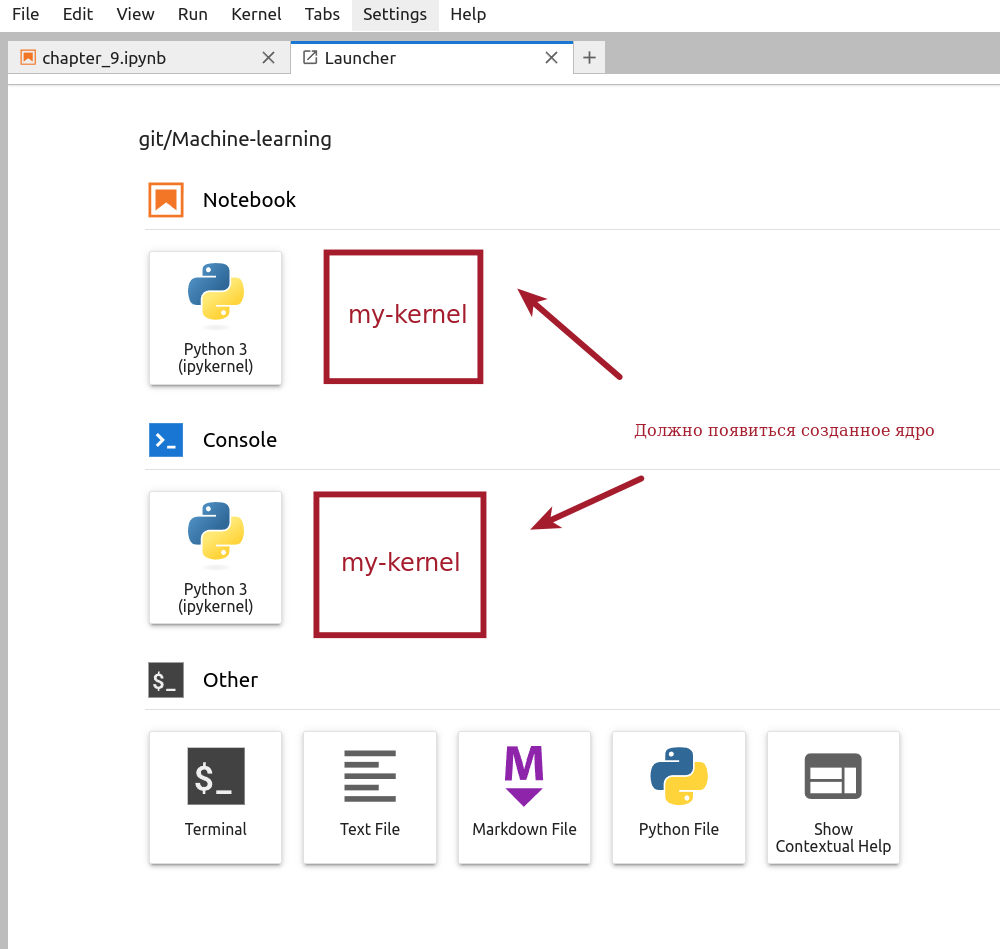
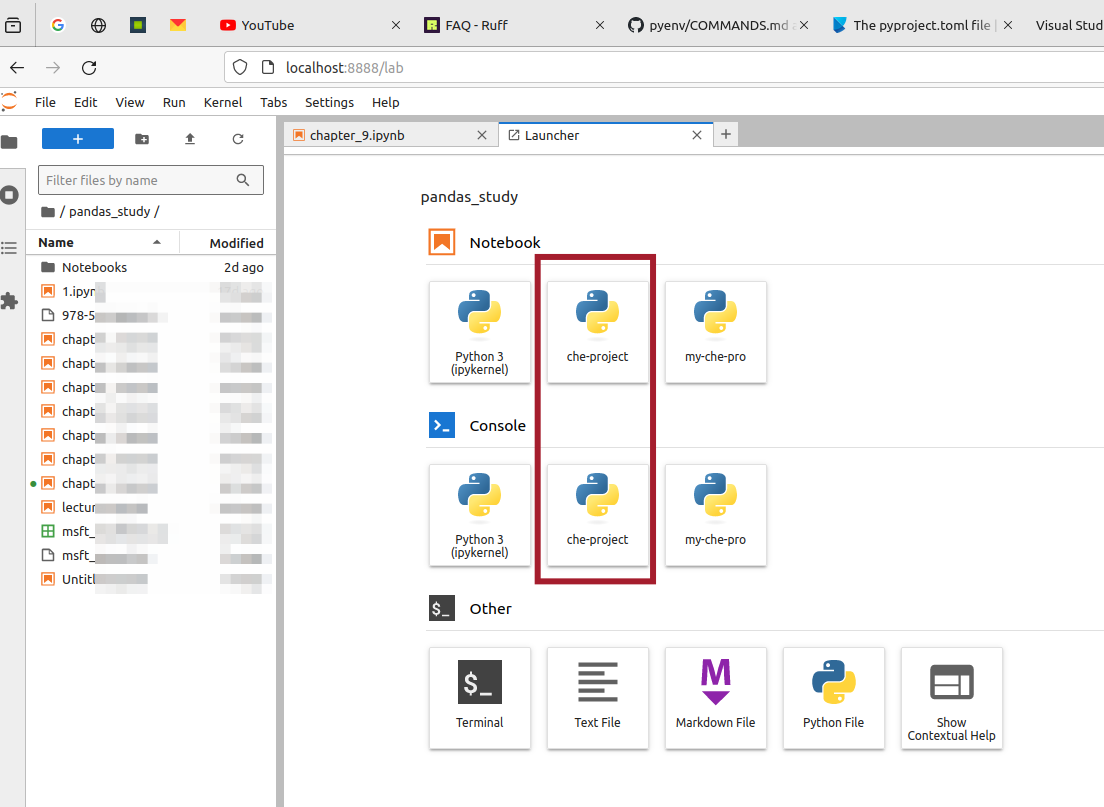
добавил изображения для заметки

Changed region(s): [[0.0, 0.0, 1.0, 1.0], [0.31, 0.2169, 0.93, 0.7435], [0.31, 0.7435, 0.899, 0.9294]]

diff --git a/notes/environmental/Окружение JupyterLab.md b/notes/environmental/Окружение JupyterLab.md
@@ -11,16 +11,24 @@ poetry add -D jupyterlab
   5. Жмем на кнопку с отображением текущего имени окружения и выбираем из списка то которое создали.![[jplab_5.png]]
 
 ##### Существует еще один вариант создания свое ядра для jupyter.
-**Данный вариант у меня, почему-то, не получился.(но его следует пробовать)**
+
 Для этого нужно добавить еще одну dev зависимость в poetry.
 ```bash
 poetry add -D ipykernel
 ```
 и выполнить команду
 ```bash
-poetry run python -m ipykernel install --user --name my-kernel
+poetry run python -m ipykernel install --user --name che-project
 ```
-После этого при создании нового таба должно отображаться созданное ядро.![[jplab_6.png]]
+После это при <u>запуске jupyter lab через poetry</u> мы сможем выбирать нужное нам ядро (если отрывать jupyter lab не через poetry, то ничего работать не будет)
+```bash
+poetry run jupyter lab
+```
 
-Полезные ссылки:
+**У нас откроется jupyter lab в браузере.** После этого при создании нового таба должно отображаться созданное ядро![[jplab_6.png]]
+
+Можно изменить ядро в уже отрытом файле.![[jplab_7.png]]
+
+
+#### Полезные ссылки:
 https://www.alexanderjunge.net/blog/pyenv-virtualenv-poetry-jupyter/
